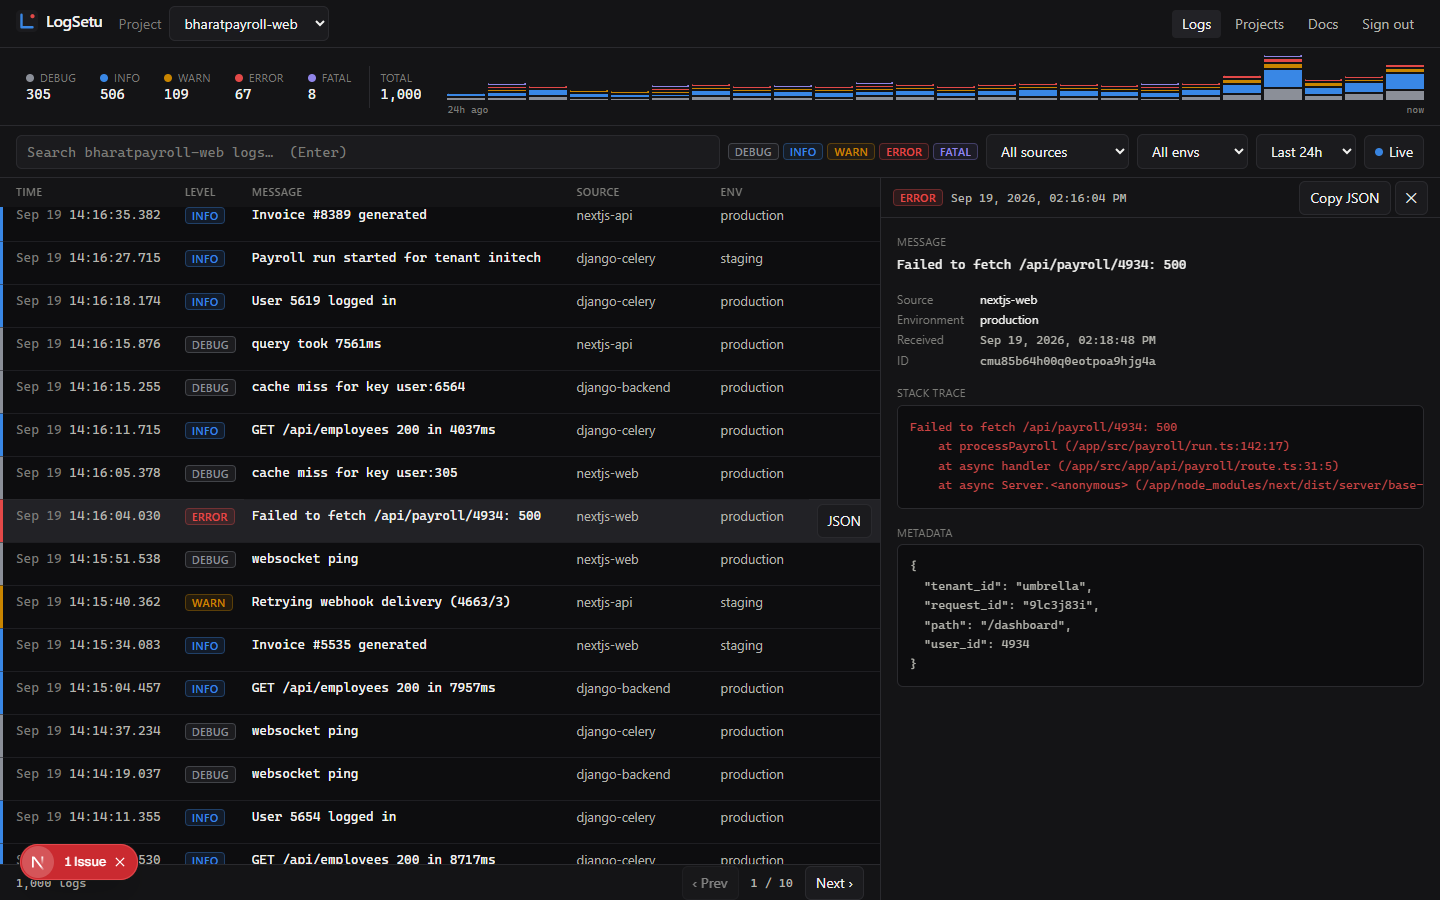
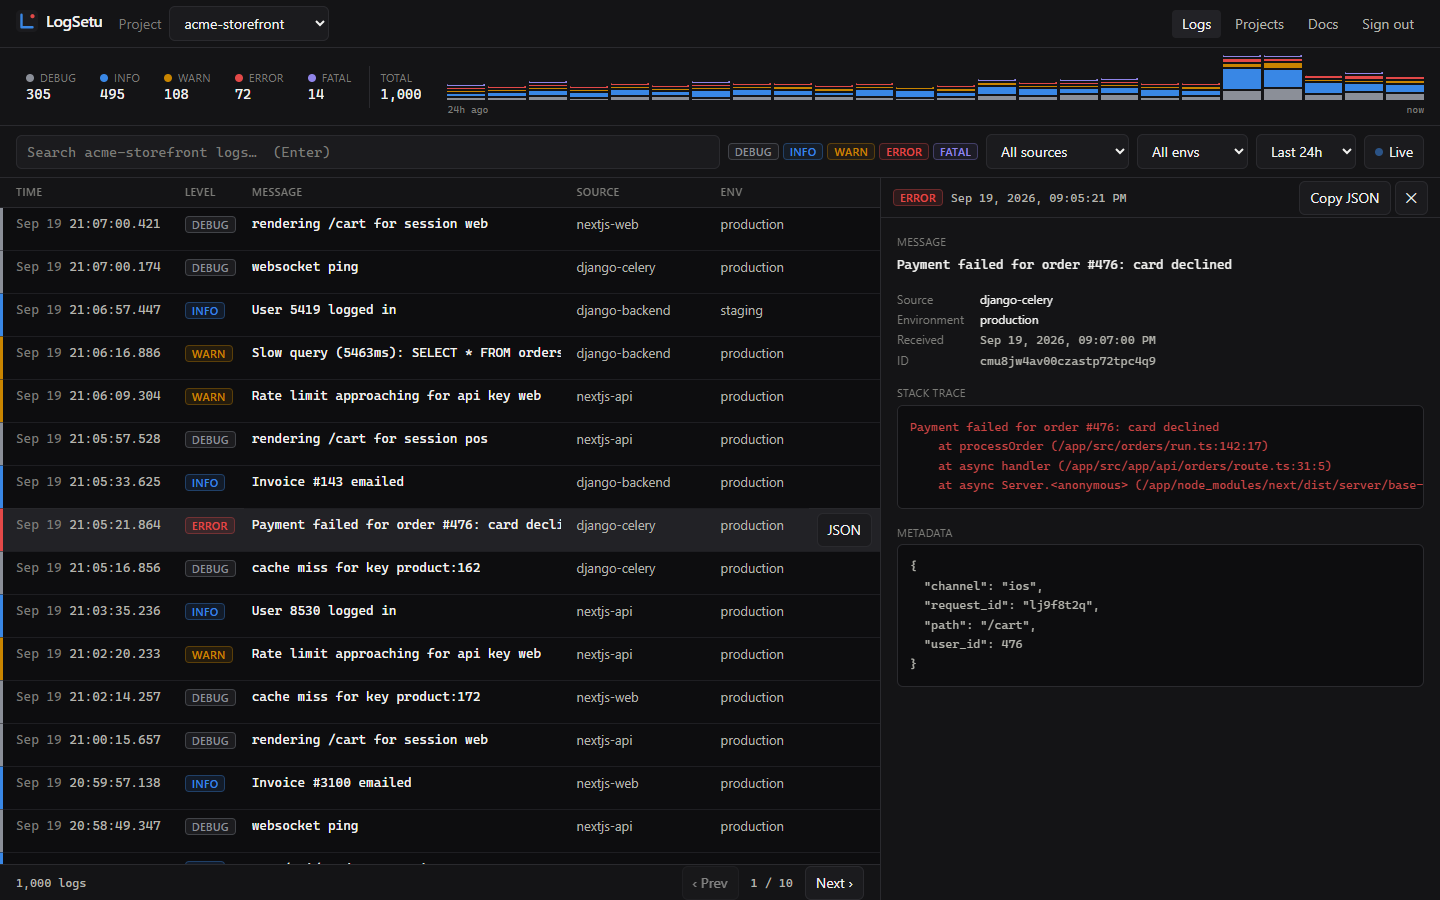
docs: replace dashboard screenshot with fictional demo project; neutralize example log messages

diff --git a/examples/django-app/demo/urls.py b/examples/django-app/demo/urls.py
@@ -11,8 +11,8 @@ def index(request):
     return JsonResponse({"hello": "world"})
 
 
-def payroll(request):
-    log.warning("payroll run is slow", extra={"duration_ms": 1830, "employees": 412})
+def checkout(request):
+    log.warning("checkout is slow", extra={"duration_ms": 1830, "cart_items": 12})
     return JsonResponse({"status": "queued"})
 
 
@@ -21,4 +21,4 @@ def crash(request):
     return JsonResponse({"salary": employees["missing"]["salary"]})
 
 
-urlpatterns = [path("", index), path("payroll/", payroll), path("crash/", crash)]
+urlpatterns = [path("", index), path("checkout/", checkout), path("crash/", crash)]

diff --git a/packages/logsetu-django/README.md b/packages/logsetu-django/README.md
@@ -43,7 +43,7 @@ reports unhandled exceptions (and 5xx responses) with the request path, method, 
 import logging
 log = logging.getLogger(__name__)
 
-log.warning("Payroll run is slow", extra={"duration_ms": 1830, "employees": 412})
+log.warning("Checkout is slow", extra={"duration_ms": 1830, "cart_items": 12})
 try:
     charge(card)
 except PaymentError:
